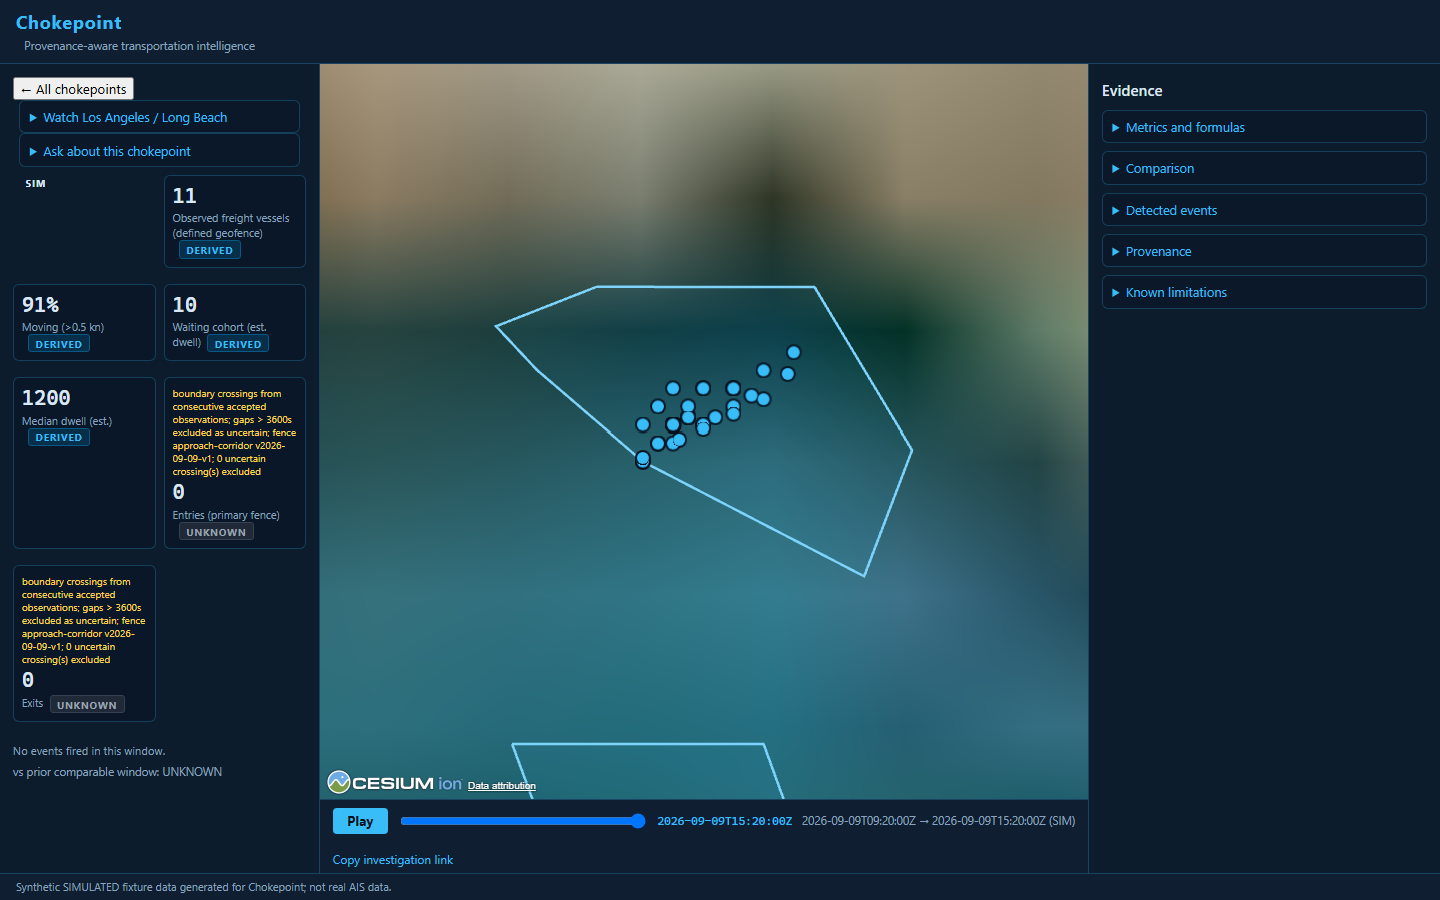
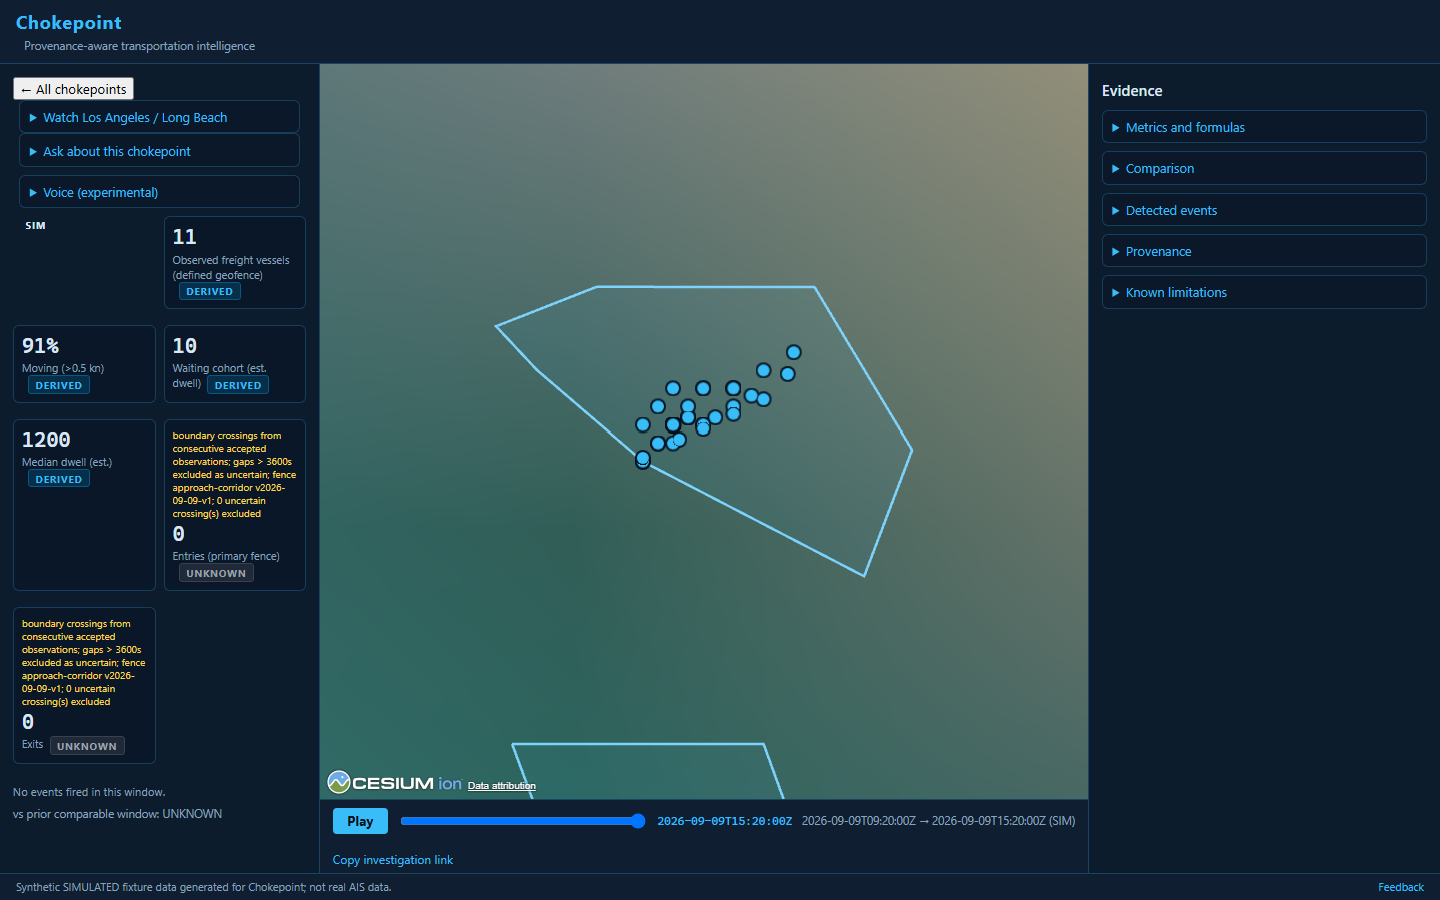
Multimodal UI + wiring completion: AdsbLolAdapter wired into manager (LIVE in-fence aircraft, inferred cohorts, unwired-vs-empty-sky honest notices, health.adsb), HUD facility wait cards (SIM/LIVE/UNKNOWN with missing-not-zero notes), globe air layer renders aircraft at altitude in amber per 9.3; QA

diff --git a/src/ui/freightHud.ts b/src/ui/freightHud.ts
@@ -129,6 +129,31 @@ export function comparisonLine(comparison: {
 }
 
 /** Render cards into a container (thin DOM writer). */
+/**
+ * Facility wait-time cards (ADR-0013/0015): one card per crossing with the
+ * commercial-vehicle wait. OBSERVED values from CBP render with the OBSERVED
+ * badge vocabulary... §9.3 badges are LIVE/DERIVED/ESTIMATE/SIM/STALE/UNKNOWN —
+ * an observed CBP reading in fixture mode carries SIM (never reads as live);
+ * in live deployments it carries LIVE. The lane update label is shown
+ * verbatim (ADR-0013).
+ */
+export function facilityCards(snapshot: ChokepointSnapshot, liveFacilityLayer: boolean): MetricCard[] {
+  return snapshot.facilityMetrics.map((f) => {
+    const wait = f.measurements.find((x) => x.laneGroup === "commercial_vehicle" && x.metric === "wait_minutes");
+    const hasValue = wait !== undefined && wait.value !== null;
+    return {
+      id: `facility-${f.facilityId}`,
+      label: `Border wait (commercial) — ${f.displayName}`,
+      value: hasValue ? `${wait.value} min` : "—",
+      raw: hasValue ? (wait.value as number) : null,
+      unit: "minutes",
+      badge: hasValue ? (liveFacilityLayer ? "LIVE" : "SIM") : "UNKNOWN",
+      note: hasValue ? null : `No usable commercial wait reading (${f.providerUpdateLabel ?? "update pending"}) — missing is not zero.`,
+      formulaVersion: "cbp-wait-observed-v1",
+    };
+  });
+}
+
 export function renderFreightHud(container: HTMLElement, snapshot: ChokepointSnapshot, truthStateBadge: Badge = "SIM"): void {
   container.innerHTML = "";
   const modeBadge = document.createElement("span");
@@ -138,7 +163,10 @@ export function renderFreightHud(container: HTMLElement, snapshot: ChokepointSna
   modeBadge.dataset.testid = "mode-badge";
   container.appendChild(modeBadge);
 
-  for (const card of metricCards(snapshot)) {
+  // Facility cards for land/air profiles (facility metrics live OUTSIDE the
+  // entity metric list, ADR-0015); liveFacilityLayer = the CBP adapter is wired.
+  const facilityLayerLive = snapshot.health.cbp !== null;
+  for (const card of [...metricCards(snapshot), ...facilityCards(snapshot, facilityLayerLive)]) {
     const el = document.createElement("div");
     el.className = "metric-card";
     el.dataset.testid = `card-${card.id}`;

diff --git a/tests/unit/multimodal.test.ts b/tests/unit/multimodal.test.ts
@@ -6,6 +6,7 @@
 
 import { describe, expect, it } from "vitest";
 import { createDataManager } from "../../src/data/manager";
+import { facilityCards } from "../../src/ui/freightHud";
 
 const WINDOW = { startAt: "2026-09-10T07:00:00Z", endAt: "2026-09-10T12:00:00Z" };
 
@@ -31,6 +32,28 @@ describe("land profile: CBP facility metrics (ADR-0013/0015)", async () => {
     expect(snap.metrics.vesselCount.quality.coverageNote).toMatch(/facility profile/);
     expect(snap.comparisons.vesselCount.direction).toBe("unknown");
     expect(snap.observations).toHaveLength(0); // facility profile: no entity data
+  });
+
+  it("facility HUD cards render commercial wait with SIM badge in fixture mode (§4.2)", async () => {
+    const snap = manager.getSnapshot("el-paso-border-crossings", WINDOW);
+    const cards = facilityCards(snap, false); // fixture mode: CBP layer unwired
+    expect(cards).toHaveLength(2);
+    const bota = cards.find((c) => c.id === "facility-cbp:240201:bridge")!;
+    expect(bota.value).toBe("3 min");
+    expect(bota.badge).toBe("SIM"); // never reads as live in fixture mode
+    // DOM render of facility cards is covered in the happy-dom agentPanel/phase3-ui suites.
+  });
+
+  it("facility cards show LIVE when the CBP layer is wired, UNKNOWN when no reading", () => {
+    const snap = manager.getSnapshot("el-paso-border-crossings", WINDOW);
+    const wired = facilityCards(snap, true);
+    expect(wired.every((c) => c.badge === "LIVE")).toBe(true);
+    // A null-value facility renders UNKNOWN with an honest note (never zero).
+    const snapNoReadings = { ...snap, facilityMetrics: [{ ...snap.facilityMetrics[0]!, measurements: [{ laneGroup: "commercial_vehicle" as const, metric: "wait_minutes" as const, value: null, unit: "minutes" as const }] }] };
+    const cards = facilityCards(snapNoReadings, true);
+    expect(cards[0]!.badge).toBe("UNKNOWN");
+    expect(cards[0]!.value).toBe("—");
+    expect(cards[0]!.note).toMatch(/missing is not zero/);
   });
 
   it("facility data NEVER bleeds into entity observations (§3.1, ADR-0015)", () => {

diff --git a/src/scene/globe.ts b/src/scene/globe.ts
@@ -123,16 +123,30 @@ export function createFreightGlobe(
       for (const entity of toRemove) viewer.entities.remove(entity);
       for (const o of observations) {
         const selected = selectedEntityId !== undefined && o.entityId === selectedEntityId;
+        const isAir = o.mode === "air";
+        // §9.3 visual direction: sea blue for maritime, amber for air. Air
+        // points render AT ALTITUDE (aircraft are airborne); maritime points
+        // stay ground-clamped.
+        const color = isAir
+          ? Cesium.Color.fromCssColorString("#f59e0b")
+          : o.quality.classification === "confirmed"
+            ? Cesium.Color.fromCssColorString("#38bdf8")
+            : Cesium.Color.fromCssColorString("#94a3b8");
         viewer.entities.add({
           id: `${o.entityId}@${o.observedAt}`,
-          position: Cesium.Cartesian3.fromDegrees(o.position.longitude, o.position.latitude),
+          position: Cesium.Cartesian3.fromDegrees(
+            o.position.longitude,
+            o.position.latitude,
+            isAir ? (o.position.altitudeMeters ?? 0) : undefined,
+          ),
           point: {
             pixelSize: selected ? 18 : 12,
-            color: o.quality.classification === "confirmed" ? Cesium.Color.fromCssColorString("#38bdf8") : Cesium.Color.fromCssColorString("#94a3b8"),
+            color,
             outlineColor: selected ? Cesium.Color.WHITE : Cesium.Color.fromCssColorString("#04121f"),
             outlineWidth: 2,
-            // Height reference keeps points readable over the ellipsoid surface.
-            heightReference: Cesium.HeightReference.CLAMP_TO_GROUND,
+            // Height reference keeps maritime points readable over the surface;
+            // air points carry real altitude and must not clamp.
+            heightReference: isAir ? Cesium.HeightReference.NONE : Cesium.HeightReference.CLAMP_TO_GROUND,
             disableDepthTestDistance: Number.POSITIVE_INFINITY,
           },
           description: `<table>

diff --git a/STATUS.md b/STATUS.md
@@ -553,6 +553,28 @@ land profile, each with placeholder geometry awaiting human review.**
   adapters exist and are tested but the browser app runs fixture-mode);
   aircraft/truck corridor visualization; rail (deferred, ADR-0014).
 
+## Multimodal UI + full live wiring (2026-09-10)
+
+- **AdsbLolAdapter wired into the manager** (completing decision 2 for air):
+  air profiles serve LIVE aircraft inside the reviewed `lax-cargo-approach`
+  fence — membership via the now-approved geometry — with inferred freight
+  cohorts (entityType "aircraft") separated from non-freight; honest notices
+  distinguish unwired (no adapter) from empty sky (regional coverage, ADR-0012);
+  `health.adsb` surfaced. 3 wiring tests. The adapters read the MANAGER clock
+  context (a wiring subtlety the tests caught: adapter enable must use the
+  caller's timeline, not its own).
+- **HUD facility wait cards** (`facilityCards`, §4.2): one card per crossing
+  with the commercial-vehicle wait, verbatim lane update context in the note;
+  SIM badge in fixture mode, LIVE when the CBP layer is wired, UNKNOWN with an
+  honest "missing is not zero" note when a crossing has no usable reading.
+- **Globe air rendering** (§9.3 visual direction applied): aircraft render AT
+  ALTITUDE (no ground clamp) in amber; maritime stays sea-blue and
+  ground-clamped. Pixel QA and perf:replay budgets re-verified PASS (render
+  mean 3.0 ms / max 5.5 ms).
+- **Honest scope still holds**: the browser app boots fixture-mode; the live
+  adapters are exercised through the manager in tests and are ready for the
+  §10.2 hosted-API/browser-live path, which remains deliberately unbuilt.
+
 ## Geometry v1 approved for the multimodal profiles (2026-09-10)
 
 - **Review owner ChrisSchmidt approved the candidate frames** ("Frames look

diff --git a/research/perf/replay-perf-2026-09-10.md b/research/perf/replay-perf-2026-09-10.md
@@ -1,8 +1,8 @@
 # Replay performance profile (§12.5 budgets v1)
 
-- Generated: 2026-09-10T12:26:02.810Z
-- Replay render: count=26, mean=3.3ms, p95=6.4ms, max=8.0ms (budget mean 33ms / max 250ms)
-- Scrub latency (n=20): mean=123.4ms, max=156.5ms (budget 250ms)
+- Generated: 2026-09-10T14:55:05.410Z
+- Replay render: count=26, mean=3.0ms, p95=4.7ms, max=5.5ms (budget mean 33ms / max 250ms)
+- Scrub latency (n=20): mean=128.5ms, max=169.5ms (budget 250ms)
 - Idle renders over 5s paused: 0 (budget 1)
 - Heap growth over 5 enable/disable cycles: 0.0% (budget 50%)
 
